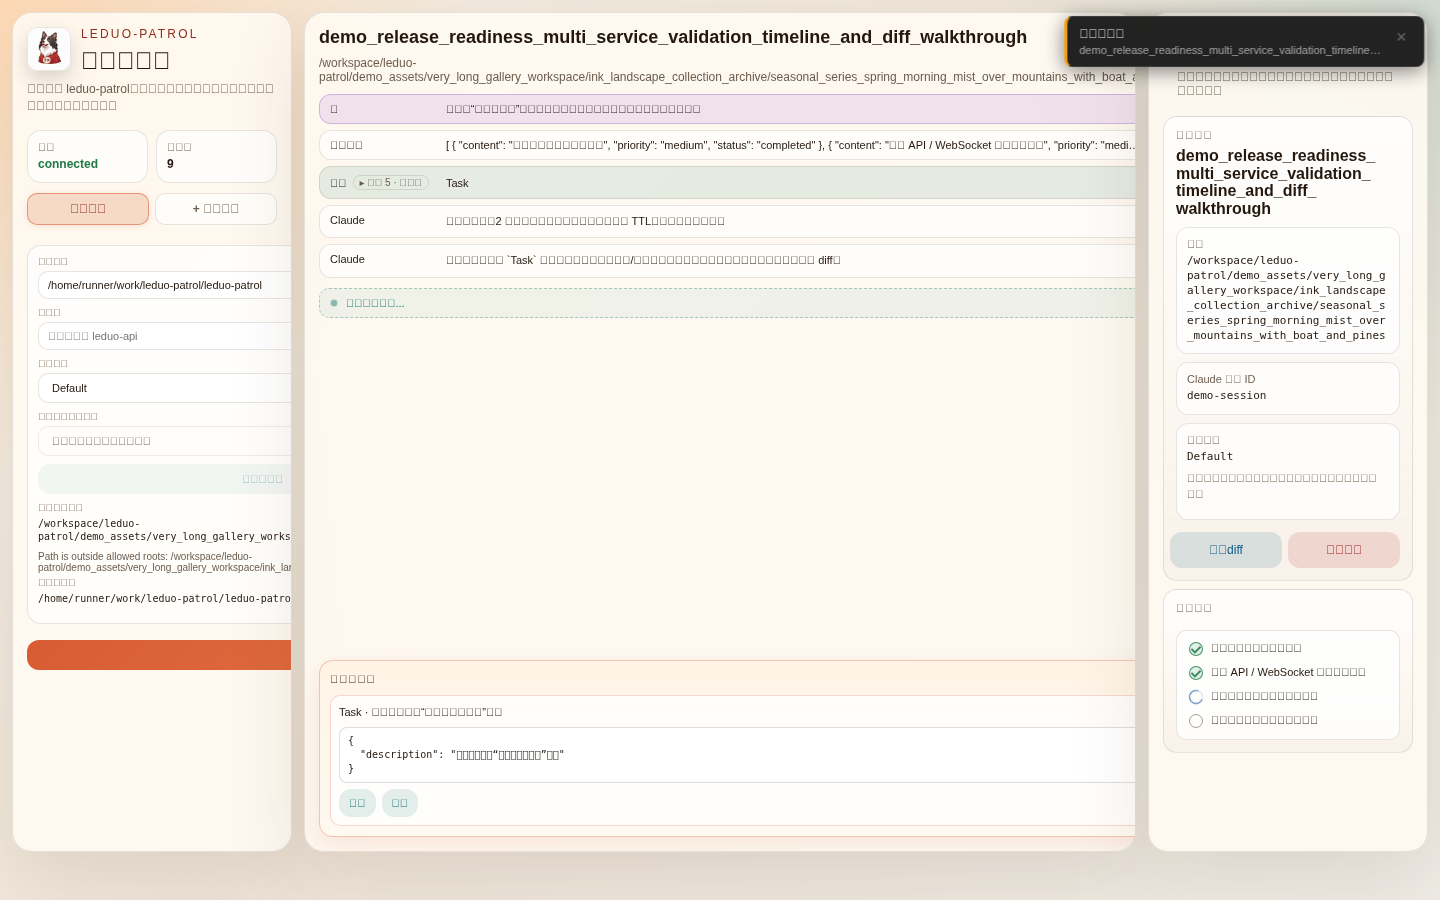
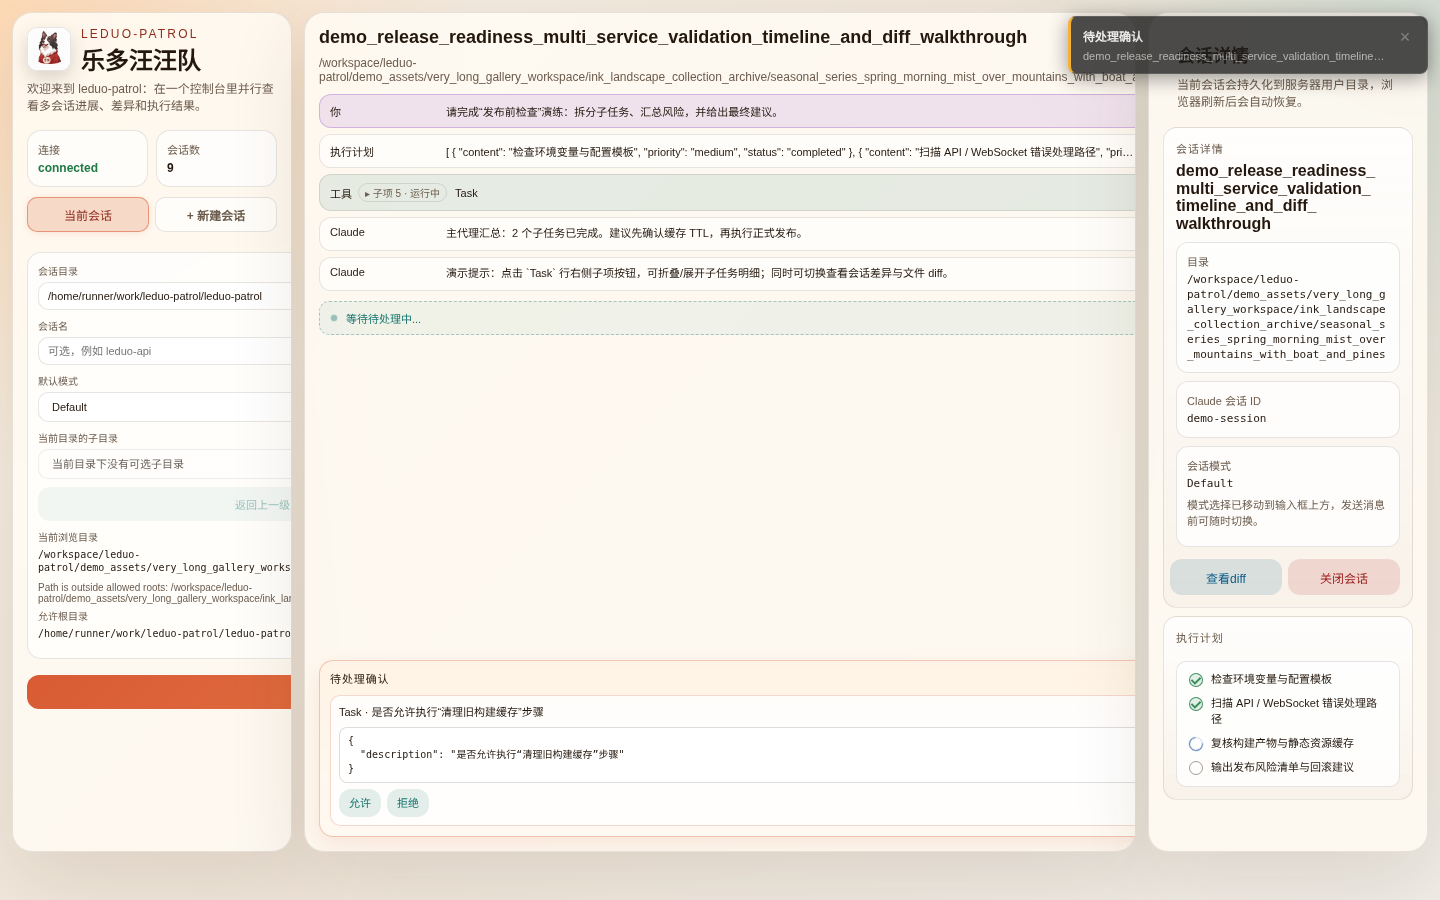
docs: refresh showcase screenshots with Chinese font support (fonts-noto-cjk)

diff --git a/server/acp-session.ts b/server/acp-session.ts
@@ -251,6 +251,8 @@ export class ClaudeAcpSession {
     this.onEvent({ type: "prompt_started", payload: { promptId, text } });
 
     try {
+      // Images first, then text — mirrors the convention used by Claude's own clients
+      // (vision context before the instruction yields better results).
       const promptContent: schema.ContentBlock[] = [];
       if (images && images.length > 0) {
         for (const img of images) {
